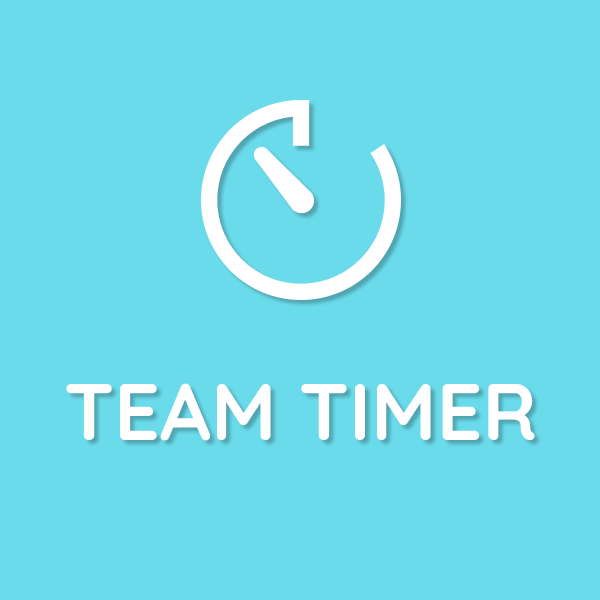
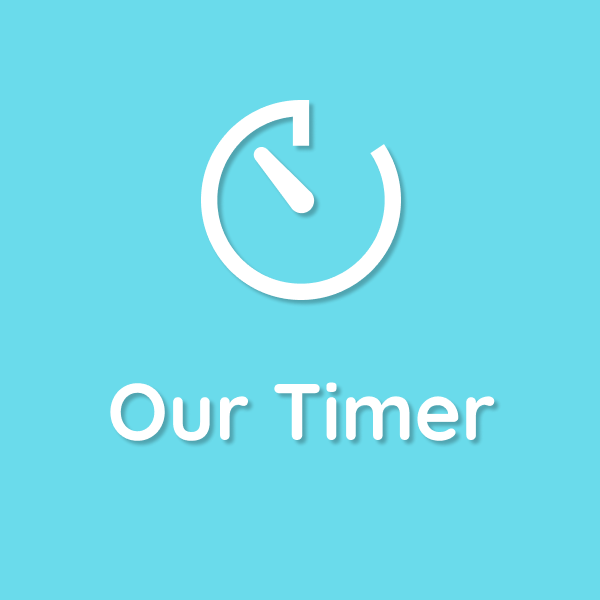
change the service name.

Changed region(s): [[0.09, 0.63, 0.9, 0.75]]

diff --git a/nuxt.config.js b/nuxt.config.js
@@ -1,5 +1,5 @@
-const productName = 'Team Timer'
-const description = 'Team Timerはチームでタイマーを共有できるツールです。同じURLにアクセスするだけでタイマーを共有できます。リモートでグループワークをするときに便利です。もちろん一人でも使えます。'
+const productName = 'Our Timer'
+const description = 'Our Timerはチームでタイマーを共有できるツールです。同じURLにアクセスするだけでタイマーを共有できます。リモートでグループワークをするときに便利です。もちろん一人でも使えます。'
 const baseUrl = process.env.BASE_URL || 'http://localhost:3000'
 
 module.exports = {
